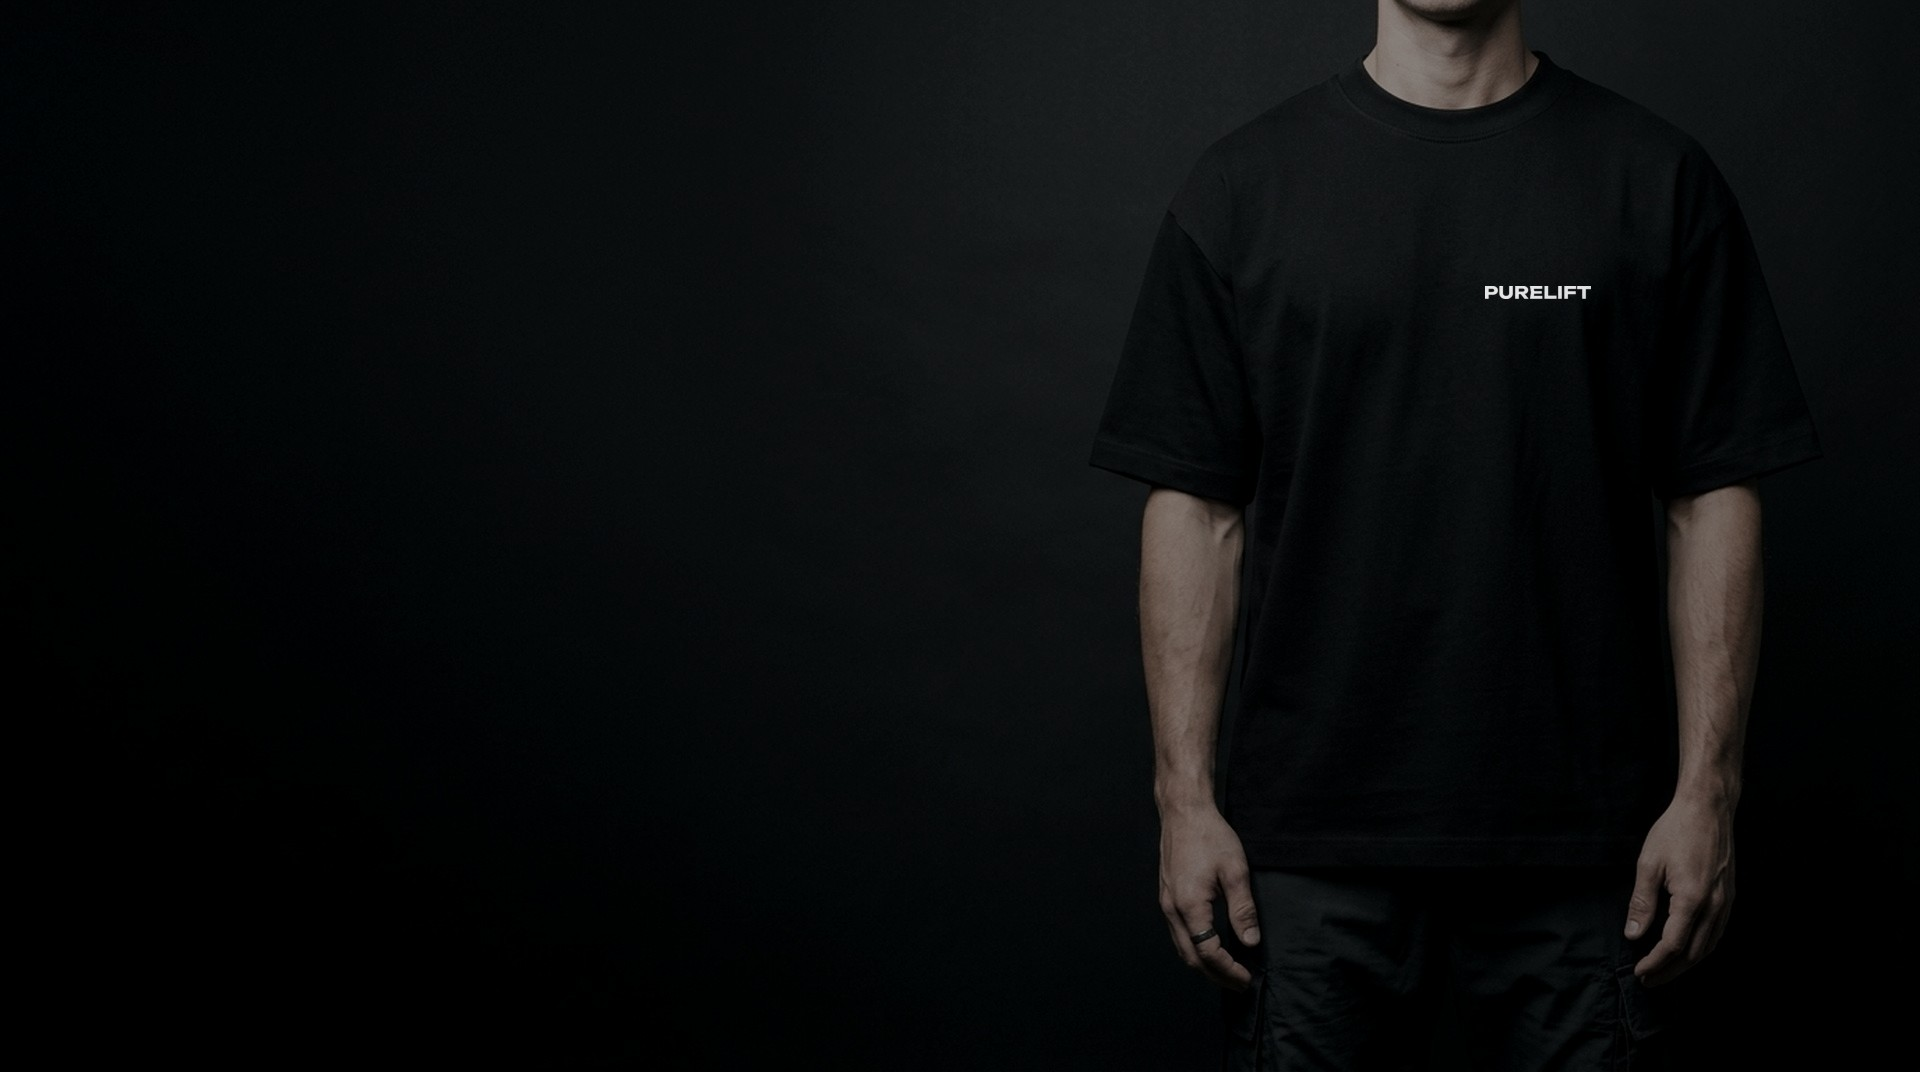
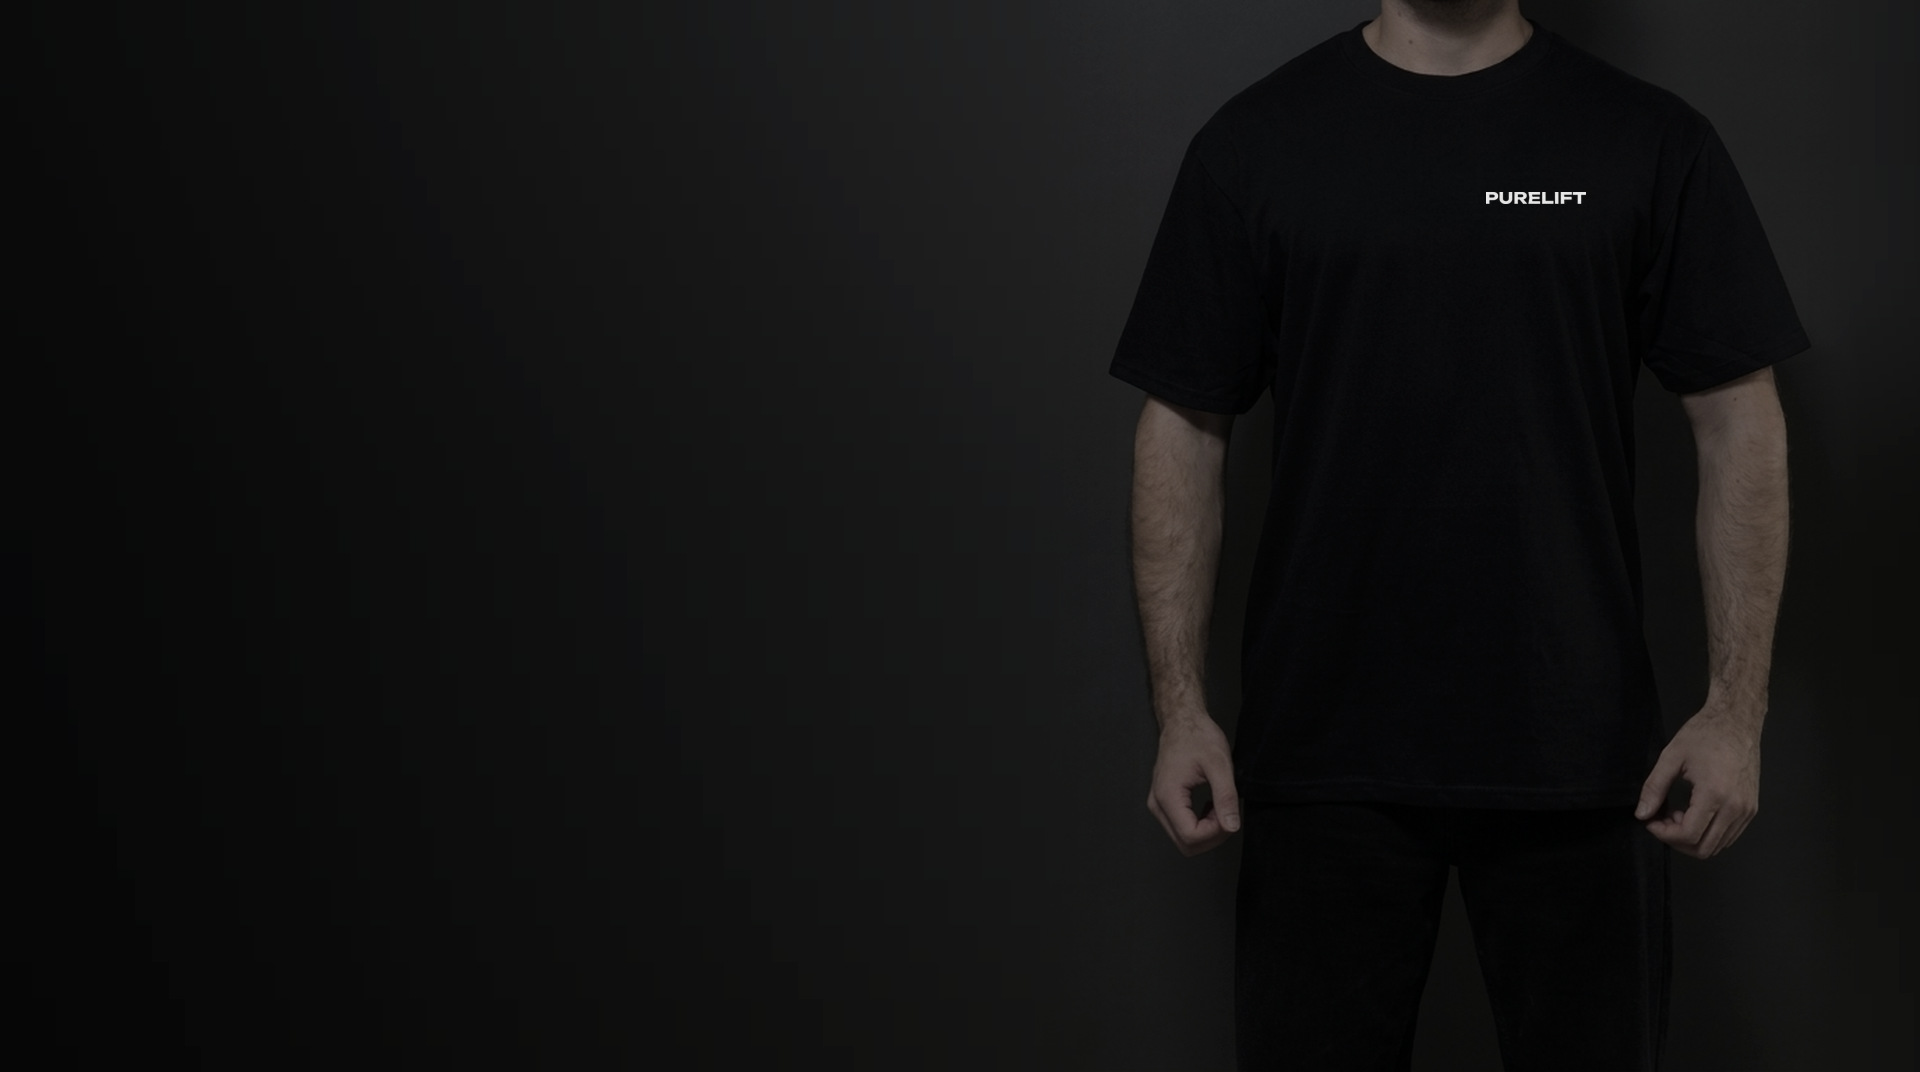
Add files via upload

diff --git a/app.js b/app.js
@@ -611,9 +611,260 @@ function closeOrderConfirmation() {
   lockScroll(false);
 }
 
+// ---------- Reviews (minimalist, cu poză opțională, salvare locală + notificare pe email) ----------
+const REVIEWS_STORAGE_KEY = 'purelift_v2_reviews';
+let selectedReviewRating = 5;
+let selectedReviewPhotoDataUrl = '';
+
+function loadCustomerReviews() {
+  try {
+    const raw = localStorage.getItem(REVIEWS_STORAGE_KEY);
+    return raw ? JSON.parse(raw) : [];
+  } catch (e) {
+    return [];
+  }
+}
+
+function saveCustomerReviews(list) {
+  try {
+    localStorage.setItem(REVIEWS_STORAGE_KEY, JSON.stringify(list));
+  } catch (e) {}
+}
+
+function escapeHtml(str) {
+  return String(str || '')
+    .replace(/&/g, '&amp;')
+    .replace(/</g, '&lt;')
+    .replace(/>/g, '&gt;')
+    .replace(/"/g, '&quot;')
+    .replace(/'/g, '&#39;');
+}
+
+function toggleReviewForm() {
+  const wrapper = document.getElementById('reviewFormWrapper');
+  if (!wrapper) return;
+  wrapper.classList.toggle('hidden');
+  if (!wrapper.classList.contains('hidden')) {
+    document.getElementById('reviewAuthor')?.focus();
+  }
+}
+
+function selectReviewRating(rating) {
+  selectedReviewRating = rating;
+  document.querySelectorAll('#reviewStarSelector .review-star-btn').forEach(btn => {
+    const star = parseInt(btn.getAttribute('data-star'), 10);
+    btn.classList.remove('border-white', 'bg-white', 'text-black', 'border-[#2a2a30]', 'text-zinc-500');
+    if (star <= rating) {
+      btn.classList.add('border-white', 'bg-white', 'text-black');
+    } else {
+      btn.classList.add('border-[#2a2a30]', 'text-zinc-500');
+    }
+  });
+  const label = document.getElementById('reviewRatingLabel');
+  if (label) label.textContent = `${rating} / 5`;
+}
+
+function handleReviewPhotoSelect(event) {
+  const file = event.target?.files?.[0];
+  if (!file) return;
+  if (!file.type.startsWith('image/')) {
+    showToast('Selectează un fișier imagine (JPG / PNG)', 'error');
+    return;
+  }
+
+  const reader = new FileReader();
+  reader.onload = e => {
+    const img = new Image();
+    img.onload = () => {
+      const maxDim = 700;
+      let w = img.width;
+      let h = img.height;
+      if (w > maxDim || h > maxDim) {
+        if (w > h) {
+          h = Math.round((h * maxDim) / w);
+          w = maxDim;
+        } else {
+          w = Math.round((w * maxDim) / h);
+          h = maxDim;
+        }
+      }
+      const canvas = document.createElement('canvas');
+      canvas.width = w;
+      canvas.height = h;
+      const ctx = canvas.getContext('2d');
+      ctx.drawImage(img, 0, 0, w, h);
+      selectedReviewPhotoDataUrl = canvas.toDataURL('image/jpeg', 0.78);
+
+      const previewImg = document.getElementById('reviewPhotoPreviewImg');
+      const previewWrap = document.getElementById('reviewPhotoPreviewWrap');
+      if (previewImg && previewWrap) {
+        previewImg.src = selectedReviewPhotoDataUrl;
+        previewWrap.classList.remove('hidden');
+      }
+    };
+    img.src = e.target.result;
+  };
+  reader.readAsDataURL(file);
+}
+
+function clearReviewPhoto() {
+  selectedReviewPhotoDataUrl = '';
+  const input = document.getElementById('reviewPhotoInput');
+  if (input) input.value = '';
+  document.getElementById('reviewPhotoPreviewWrap')?.classList.add('hidden');
+}
+
+function openReviewLightbox(idx) {
+  const reviews = loadCustomerReviews();
+  const item = reviews[idx];
+  if (!item || !item.photo) return;
+  const img = document.getElementById('reviewLightboxImg');
+  const modal = document.getElementById('reviewPhotoLightbox');
+  if (img && modal) {
+    img.src = item.photo;
+    modal.classList.add('active');
+    lockScroll(true);
+  }
+}
+
+function closeReviewLightbox() {
+  document.getElementById('reviewPhotoLightbox')?.classList.remove('active');
+  lockScroll(false);
+}
+
+function renderReviews() {
+  const container = document.getElementById('reviewsListContainer');
+  const summary = document.getElementById('reviewsSummaryText');
+  if (!container) return;
+
+  const reviews = loadCustomerReviews();
+
+  if (reviews.length === 0) {
+    if (summary) {
+      summary.textContent = 'Păreri lăsate de cei care poartă tricourile la antrenament.';
+    }
+    container.innerHTML = `
+      <div class="border-t border-[#1f1f23] py-10 sm:py-12 flex flex-col sm:flex-row sm:items-center justify-between gap-4">
+        <div>
+          <p class="text-sm text-white">Nu există încă recenzii publicate.</p>
+          <p class="text-xs text-zinc-500 mt-1">Ai comandat deja un tricou PURELIFT? Fii primul care lasă o părere (și o poză) despre material și mărime.</p>
+        </div>
+        <button type="button" onclick="toggleReviewForm()" class="self-start sm:self-auto text-xs text-zinc-300 hover:text-white underline underline-offset-4 decoration-zinc-600 hover:decoration-white transition">
+          Scrie prima recenzie
+        </button>
+      </div>
+    `;
+    return;
+  }
+
+  const avg = (reviews.reduce((acc, r) => acc + (Number(r.rating) || 5), 0) / reviews.length).toFixed(1);
+  if (summary) {
+    summary.textContent = `Medie ${avg} / 5 · ${reviews.length} ${reviews.length === 1 ? 'recenzie' : 'recenzii'}`;
+  }
+
+  container.innerHTML = `
+    <div class="grid grid-cols-1 md:grid-cols-3 border-t border-[#1f1f23]">
+      ${reviews.map((r, idx) => {
+        const stars = '★'.repeat(r.rating || 5) + '☆'.repeat(5 - (r.rating || 5));
+        const metaParts = [];
+        if (r.product) metaParts.push(escapeHtml(r.product));
+        if (r.size) metaParts.push(`Mărimea ${escapeHtml(r.size)}`);
+        const metaLine = metaParts.join(' · ');
+        const colBorder = (idx % 3 !== 2) ? 'md:border-r' : '';
+        const photoHtml = r.photo ? `
+          <button type="button" onclick="openReviewLightbox(${idx})" class="mt-4 block overflow-hidden border border-[#1f1f23] hover:border-zinc-500 transition group">
+            <img src="${r.photo}" alt="Poză recenzie ${escapeHtml(r.author)}" class="w-20 h-24 object-cover group-hover:scale-105 transition duration-300" />
+          </button>
+        ` : '';
+        return `
+          <article class="py-6 sm:py-8 md:px-6 first:md:pl-0 border-b ${colBorder} border-[#1f1f23] flex flex-col justify-between gap-5">
+            <div>
+              <div class="flex items-center justify-between text-xs mb-3">
+                <span class="tracking-widest text-white">${stars}</span>
+                <span class="text-zinc-600">${escapeHtml(r.date || '')}</span>
+              </div>
+              <p class="text-sm text-zinc-300 leading-relaxed">${escapeHtml(r.text)}</p>
+              ${photoHtml}
+            </div>
+            <div class="pt-2">
+              <div class="text-xs font-medium text-white">${escapeHtml(r.author)}</div>
+              ${metaLine ? `<div class="text-[11px] text-zinc-500 mt-0.5">${metaLine}</div>` : ''}
+            </div>
+          </article>
+        `;
+      }).join('')}
+    </div>
+  `;
+}
+
+async function submitCustomerReview(event) {
+  event.preventDefault();
+  const author = document.getElementById('reviewAuthor')?.value.trim();
+  const product = document.getElementById('reviewProduct')?.value || '';
+  const size = document.getElementById('reviewSize')?.value || '';
+  const text = document.getElementById('reviewText')?.value.trim();
+  const btn = document.getElementById('reviewSubmitBtn');
+
+  if (!author || !text) {
+    showToast('Completează numele și recenzia', 'error');
+    return;
+  }
+
+  const today = new Date().toLocaleDateString('ro-RO', { day: '2-digit', month: 'short', year: 'numeric' });
+  const newReview = {
+    author,
+    product,
+    size,
+    rating: selectedReviewRating,
+    text,
+    photo: selectedReviewPhotoDataUrl || '',
+    date: today
+  };
+
+  if (btn) {
+    btn.disabled = true;
+    btn.textContent = 'Se publică...';
+  }
+
+  const list = loadCustomerReviews();
+  list.unshift(newReview);
+  saveCustomerReviews(list);
+  renderReviews();
+
+  try {
+    await fetch('https://script.google.com/macros/s/AKfycbxKwpQKBZ5i8OLo_429viX2zbUQM1Qsqzp1GUxRYjRL5yp0tzMqQd5HHRvhemNKsPco1Q/exec', {
+      method: 'POST',
+      headers: { 'Content-Type': 'text/plain;charset=utf-8' },
+      body: JSON.stringify({
+        _subject: `Recenzie nouă PURELIFT (${selectedReviewRating}/5) — ${author}`,
+        Tip: 'RECENZIE CLIENT',
+        Client: author,
+        Evaluare: `${selectedReviewRating} / 5 stele`,
+        Model: product || '-',
+        Marime: size || '-',
+        Recenzie: text,
+        Are_Poza: selectedReviewPhotoDataUrl ? 'DA' : 'NU',
+        Data: today
+      })
+    });
+  } catch (e) {}
+
+  if (btn) {
+    btn.disabled = false;
+    btn.textContent = 'Publică recenzia';
+  }
+
+  document.getElementById('reviewForm')?.reset();
+  clearReviewPhoto();
+  selectReviewRating(5);
+  document.getElementById('reviewFormWrapper')?.classList.add('hidden');
+  showToast('Mulțumim! Recenzia ta a fost adăugată.');
+}
+
 // ---------- Init ----------
 document.addEventListener('DOMContentLoaded', () => {
   renderProducts();
+  renderReviews();
   updateCartBadge();
   renderCartDrawer();
 
@@ -628,5 +879,6 @@ document.addEventListener('DOMContentLoaded', () => {
     closeQuickView();
     closeCheckoutModal();
     closeCartDrawer();
+    closeReviewLightbox();
   });
 });

diff --git a/index.html b/index.html
@@ -48,6 +48,7 @@
         <a href="#catalog" class="hover:text-white transition">Colecție</a>
         <a href="#marimi" class="hover:text-white transition">Mărimi</a>
         <a href="#de-ce-purelift" class="hover:text-white transition">Despre</a>
+        <a href="#recenzii" class="hover:text-white transition">Recenzii</a>
         <a href="#contact" class="hover:text-white transition">Contact</a>
       </nav>
 
@@ -65,6 +66,7 @@
       <a href="#catalog" onclick="toggleMobileNav()" class="block py-3.5 text-sm text-zinc-200 hover:text-white">Colecție</a>
       <a href="#marimi" onclick="toggleMobileNav()" class="block py-3.5 text-sm text-zinc-200 hover:text-white">Ghid mărimi</a>
       <a href="#de-ce-purelift" onclick="toggleMobileNav()" class="block py-3.5 text-sm text-zinc-200 hover:text-white">Despre</a>
+      <a href="#recenzii" onclick="toggleMobileNav()" class="block py-3.5 text-sm text-zinc-200 hover:text-white">Recenzii</a>
       <a href="#contact" onclick="toggleMobileNav()" class="block py-3.5 text-sm text-zinc-200 hover:text-white">Contact</a>
     </div>
   </header>
@@ -176,6 +178,107 @@
         </div>
       </div>
     </section>
+
+    <!-- ==================== RECENZII ==================== -->
+    <section id="recenzii" class="py-14 sm:py-20 md:py-28 border-t border-[#1f1f23]">
+      <div class="max-w-6xl mx-auto px-4 sm:px-6">
+        <div class="flex flex-col sm:flex-row sm:items-end justify-between gap-5 mb-8 sm:mb-12">
+          <div>
+            <div class="eyebrow">Recenzii</div>
+            <h2 class="text-2xl sm:text-4xl font-semibold tracking-tight text-white mt-2 sm:mt-3">Ce spun clienții</h2>
+            <p id="reviewsSummaryText" class="text-xs sm:text-sm text-zinc-500 mt-2">Păreri lăsate de cei care poartă tricourile la antrenament.</p>
+          </div>
+          <button type="button" id="toggleReviewFormBtn" onclick="toggleReviewForm()" class="self-start sm:self-auto h-11 px-6 border border-[#2a2a30] text-xs uppercase tracking-[0.14em] text-white hover:border-white transition whitespace-nowrap">
+            Lasă o recenzie
+          </button>
+        </div>
+
+        <!-- Formular minimalist de adăugare recenzie (ascuns implicit) -->
+        <div id="reviewFormWrapper" class="hidden mb-10 sm:mb-12 bg-[#111113] border border-[#1f1f23] p-5 sm:p-8">
+          <div class="flex items-center justify-between pb-4 mb-5 border-b border-[#1f1f23]">
+            <h3 class="text-sm font-medium text-white">Adaugă o recenzie</h3>
+            <button type="button" onclick="toggleReviewForm()" class="text-xs text-zinc-500 hover:text-white transition">Închide</button>
+          </div>
+
+          <form id="reviewForm" onsubmit="submitCustomerReview(event)" class="space-y-4 sm:space-y-5">
+            <div>
+              <label class="block text-xs text-zinc-400 mb-2">Evaluare</label>
+              <div class="flex items-center gap-1.5" id="reviewStarSelector">
+                <button type="button" onclick="selectReviewRating(1)" data-star="1" class="review-star-btn h-9 w-9 border border-white bg-white text-black text-sm transition" aria-label="1 stea">★</button>
+                <button type="button" onclick="selectReviewRating(2)" data-star="2" class="review-star-btn h-9 w-9 border border-white bg-white text-black text-sm transition" aria-label="2 stele">★</button>
+                <button type="button" onclick="selectReviewRating(3)" data-star="3" class="review-star-btn h-9 w-9 border border-white bg-white text-black text-sm transition" aria-label="3 stele">★</button>
+                <button type="button" onclick="selectReviewRating(4)" data-star="4" class="review-star-btn h-9 w-9 border border-white bg-white text-black text-sm transition" aria-label="4 stele">★</button>
+                <button type="button" onclick="selectReviewRating(5)" data-star="5" class="review-star-btn h-9 w-9 border border-white bg-white text-black text-sm transition" aria-label="5 stele">★</button>
+                <span id="reviewRatingLabel" class="ml-2 text-xs text-zinc-400">5 / 5</span>
+              </div>
+            </div>
+
+            <div class="grid grid-cols-1 sm:grid-cols-3 gap-3.5 sm:gap-4">
+              <div>
+                <label for="reviewAuthor" class="block text-xs text-zinc-400 mb-1.5">Nume / Prenume</label>
+                <input type="text" id="reviewAuthor" required maxlength="40" placeholder="ex. Andrei M." class="w-full h-11 sm:h-12 px-3.5 sm:px-4 text-sm" />
+              </div>
+              <div>
+                <label for="reviewProduct" class="block text-xs text-zinc-400 mb-1.5">Model (opțional)</label>
+                <select id="reviewProduct" class="w-full h-11 sm:h-12 px-3.5 sm:px-4 text-sm bg-[#0a0a0b]">
+                  <option value="Wordmark Tee">Scris PURELIFT pe piept</option>
+                  <option value="Emblem Tee">Emblema PURELIFT pe piept</option>
+                  <option value="Signature Tee">Emblemă și scris PURELIFT</option>
+                </select>
+              </div>
+              <div>
+                <label for="reviewSize" class="block text-xs text-zinc-400 mb-1.5">Mărime purtată (opțional)</label>
+                <select id="reviewSize" class="w-full h-11 sm:h-12 px-3.5 sm:px-4 text-sm bg-[#0a0a0b]">
+                  <option value="">Alege mărimea</option>
+                  <option value="S">Mărimea S</option>
+                  <option value="M">Mărimea M</option>
+                  <option value="L">Mărimea L</option>
+                  <option value="XL">Mărimea XL</option>
+                </select>
+              </div>
+            </div>
+
+            <div>
+              <label for="reviewText" class="block text-xs text-zinc-400 mb-1.5">Părerea ta</label>
+              <textarea id="reviewText" required rows="3" maxlength="400" placeholder="Cum ți se pare materialul, croiala sau mărimea?" class="w-full p-3.5 sm:p-4 text-sm bg-[#0a0a0b] border border-[#2a2a30] text-white placeholder-zinc-600 focus:outline-none focus:border-white transition"></textarea>
+            </div>
+
+            <div class="flex flex-col sm:flex-row sm:items-center justify-between gap-4 pt-1">
+              <div>
+                <input type="file" id="reviewPhotoInput" accept="image/*" class="hidden" onchange="handleReviewPhotoSelect(event)" />
+                <div class="flex items-center gap-3">
+                  <button type="button" onclick="document.getElementById('reviewPhotoInput').click()" class="h-10 px-4 border border-[#2a2a30] text-xs text-zinc-300 hover:border-white hover:text-white transition flex items-center gap-2">
+                    <svg class="w-4 h-4" fill="none" stroke="currentColor" viewBox="0 0 24 24"><path stroke-linecap="round" stroke-linejoin="round" stroke-width="1.5" d="M3 9a2 2 0 012-2h.93a2 2 0 001.664-.89l.812-1.22A2 2 0 0110.07 4h3.86a2 2 0 011.664.89l.812 1.22A2 2 0 0018.07 7H19a2 2 0 012 2v9a2 2 0 01-2 2H5a2 2 0 01-2-2V9z"></path><path stroke-linecap="round" stroke-linejoin="round" stroke-width="1.5" d="M15 13a3 3 0 11-6 0 3 3 0 016 0z"></path></svg>
+                    <span>Adaugă o poză (opțional)</span>
+                  </button>
+                  <div id="reviewPhotoPreviewWrap" class="hidden flex items-center gap-2.5">
+                    <img id="reviewPhotoPreviewImg" src="" alt="Previzualizare" class="w-10 h-10 object-cover border border-[#2a2a30]" />
+                    <button type="button" onclick="clearReviewPhoto()" class="text-xs text-zinc-500 hover:text-white underline underline-offset-4 transition">Șterge</button>
+                  </div>
+                </div>
+              </div>
+
+              <button type="submit" id="reviewSubmitBtn" class="h-11 px-7 bg-white text-black text-xs font-semibold uppercase tracking-[0.14em] hover:bg-zinc-200 transition">
+                Publică recenzia
+              </button>
+            </div>
+          </form>
+        </div>
+
+        <!-- Lista de recenzii / Empty state minimalist -->
+        <div id="reviewsListContainer"></div>
+      </div>
+    </section>
+
+    <!-- Lightbox minimalist pentru pozele din recenzii -->
+    <div id="reviewPhotoLightbox" class="modal-container fixed inset-0 z-[65] flex items-center justify-center p-4 bg-black/90" onclick="if(event.target===this) closeReviewLightbox()">
+      <div class="relative max-w-2xl w-full flex flex-col items-center">
+        <button type="button" onclick="closeReviewLightbox()" class="self-end mb-3 h-10 w-10 flex items-center justify-center text-zinc-400 hover:text-white transition" aria-label="Închide">
+          <svg class="w-5 h-5" fill="none" stroke="currentColor" viewBox="0 0 24 24"><path stroke-linecap="round" stroke-linejoin="round" stroke-width="1.5" d="M6 18L18 6M6 6l12 12"></path></svg>
+        </button>
+        <img id="reviewLightboxImg" src="" alt="Poză recenzie client" class="max-h-[82vh] w-auto object-contain border border-[#1f1f23]" />
+      </div>
+    </div>
   </main>
 
   <!-- ==================== FOOTER ==================== -->
